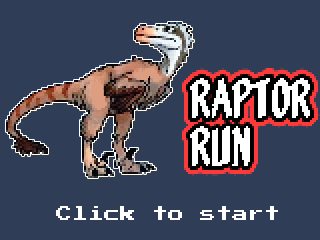
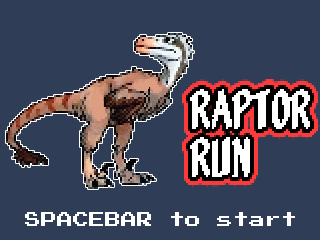
Correct titlescreen text

diff --git a/src/index.js b/src/index.js
@@ -101,7 +101,7 @@ const GROUND = 176
 // Globals =========================================
 
 var fgScrollSpeed = 0.12
-var obstacleFrequency = 0.02
+var obstacleFrequency = 0.15
 var sprite = new Image()
 var loop
 var currentScore = 0
@@ -835,7 +835,6 @@ gameEnginesObject.controls.collisionEngine = new Control({
 
 game.changeState(loading)
 player.changeState(jump)
-player.controls.altitude.gliding = false
 fern1.changeState(inactiveObstacle)
 fern2.changeState(inactiveObstacle)
 fern3.changeState(inactiveObstacle)
@@ -906,7 +905,7 @@ function tick(timestamp){
 function reset(){
     lastTime = null
     currentScore = 0
-    obstacleFrequency = 0.02
+    obstacleFrequency = 0.15
     fgScrollSpeed = 0.12
     nextScoreMilestone = 50
     scoreboard.innerHTML = `SCORE: ${Math.floor(currentScore)}`
